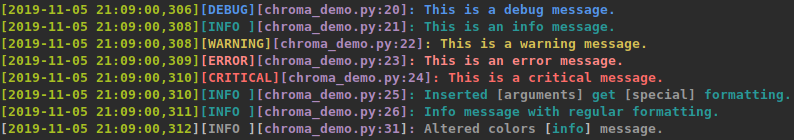
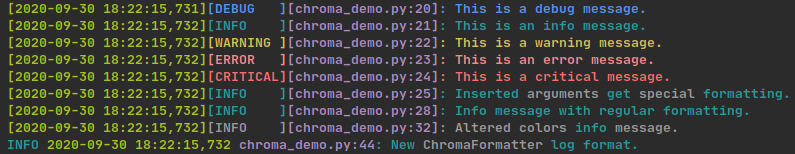
- Removed bracket coloring entirely, it was arbitrary and made things   needlessly complicated. - Updated demo screenshots. - Updated README and version. - Removed short hand version of BOLD and RESET, there should be one   obvious way to do it.

diff --git a/src/chromalogging/chroma_formatter.py b/src/chromalogging/chroma_formatter.py
@@ -7,8 +7,6 @@ from chromalogging import (Formatter, DEBUG, INFO, WARNING, ERROR, CRITICAL,
                            LogRecord)
 
 ARGS = -10
-BRACKETS = -20
-
 RESET = Style.RESET_ALL
 BOLD = Style.BRIGHT
 
@@ -38,18 +36,14 @@ class ChromaFormatter(Formatter):
     """Extends logging.Formatter to add colors and styles."""
 
     def __init__(self, msg: str, use_color: bool = True,
-                 all_bold: bool = True, apply_brackets: bool = False) -> None:
+                 all_bold: bool = True) -> None:
         """Set ChromaFormatter properties.
 
         :param msg: The format string to determine how logs will appear.
         :param use_color: Colors will be applied if True, default True.
         :param all_bold: Whole log will be bold if True, default True.
-        :param apply_brackets: Surround formatted arguments with
-            brackets if True, default False.
         """
         self.use_color: bool = use_color
-        self.add_brackets_to_args: bool = True
-        self.apply_brackets = apply_brackets
         self._bold: str = BOLD if all_bold else ''
         msg = _format_message(msg, use_color, self._bold)
         super().__init__(msg)
@@ -62,45 +56,28 @@ class ChromaFormatter(Formatter):
             WARNING: Fore.YELLOW,
             ERROR: Fore.LIGHTRED_EX,
             CRITICAL: Fore.RED,
-            ARGS: Fore.WHITE,
-            BRACKETS: ''
+            ARGS: Fore.WHITE
         }
 
     def format(self, record: LogRecord) -> str:
         _init_record(record)
         if not self.use_color or record.levelno not in self.color_map:
-            replace = '[%s]' if self.add_brackets_to_args else '%s'
-            record.msg = re.sub(r'(?<!{){}(?!})', replace, record.msg)
+            record.msg = re.sub(r'(?<!{){}(?!})', '%s', record.msg)
             return Formatter.format(self, record)
         self._style._fmt = self._original_style_fmt
         if self._bold:
             self._style._fmt = re.sub(re.escape(BOLD), '', self._style._fmt)
             self._style._fmt = BOLD + self._style._fmt
         # Shorthands for different colors.
-        bc = self.color_map[BRACKETS] + self._bold
-        ac = self.color_map[ARGS] + self._bold
-        lc = self.color_map[record.levelno] + self._bold
-        if self.color_map[BRACKETS]:
-            self._color_brackets(bc)
-        record.msg = lc + record.msg
+        arg_color = self.color_map[ARGS] + self._bold
+        level_color = self.color_map[record.levelno] + self._bold
+        record.msg = level_color + record.msg
         if record.args:
-            msg = f'{ac}{bc}[{ac}%s{bc}]{lc}' if self.apply_brackets \
-                else f'{ac}{ac}%s{lc}'
-            record.msg = re.sub(r'(?<!{){}(?!})', msg
-                                if self.add_brackets_to_args else
-                                f'{ac}%s{lc}', record.msg)
-        self._style._fmt = re.sub(r'\$LEVEL', lc, self._style._fmt) + RESET
+            record.msg = re.sub(r'(?<!{){}(?!})',
+                                f'{arg_color}%s{level_color}', record.msg)
+        self._style._fmt = re.sub(r'\$LEVEL',
+                                  level_color, self._style._fmt) + RESET
         return Formatter.format(self, record)
-
-    def _color_brackets(self, brackets_color):
-        reg = '|'.join([re.escape(v) for _, v in _WORD_TO_COLOR.items()]
-                       + [fr'\$LEVEL|{re.escape(BOLD)}|{re.escape(RESET)}|$'])
-        segments = re.findall(f'((({reg})+)(.+?))(?={reg})', self._style._fmt)
-        color_segment = [(c[1], c[3]) for c in segments]
-        self._style._fmt = ''.join(
-            re.sub(r'([\[\]])', fr'{brackets_color}\1{color}', part)
-            for color, part in color_segment
-        )
 
 
 def _init_record(record: LogRecord) -> None:
@@ -138,8 +115,8 @@ def _format_message(msg: str, use_color: bool, bold: str) -> str:
     if not use_color:
         return re.sub(r'\$[A-Z_]+\b', '', msg)
     msg = f'{bold}{msg}$RESET'
-    msg = re.sub(r'\$(RESET|R(?!ED))', RESET + bold, msg)
-    msg = re.sub(r'\$(BOLD|B(?!LUE|LACK))', BOLD, msg)
+    msg = re.sub(r'\$(RESET)', RESET + bold, msg)
+    msg = re.sub(r'\$(BOLD)', BOLD, msg)
     for color_word, color in _WORD_TO_COLOR.items():
         msg = msg.replace(f'${color_word}', color + bold)
     return msg

diff --git a/chroma_demo.py b/chroma_demo.py
@@ -6,7 +6,7 @@ from src import chromalogging as logging
 
 if __name__ == '__main__':
     log = logging.getLogger()
-    log_format = logging.default_format_msg(levelname_min=5)
+    log_format = logging.default_format_msg(levelname_min=8)
     file_formatter = logging.ChromaFormatter(log_format, False, False)
     file_handler = logging.FileHandler('log/demo.log', mode='w')
     file_handler.setFormatter(file_formatter)
@@ -28,14 +28,13 @@ if __name__ == '__main__':
     log.info(f'Info message with {reg} {formatting}.')
 
     stream_formatter.color_map[logging.INFO] = colorama.Fore.WHITE
-    stream_formatter.color_map[logging.BRACKETS] = colorama.Fore.RESET
     stream_formatter.color_map[logging.ARGS] = colorama.Fore.CYAN
     log.info('Altered colors {} message.', 'info')
 
-    format_string = (f'$GREEN%(asctime)-s'
-                     f' $LEVEL%(levelname)-s'
-                     f' $MAGENTA%(filename)-s:%(lineno)-0d'
-                     f'$LEVEL: %(message)s')
+    format_string = ('$LEVEL%(levelname)-s'
+                     ' $GREEN%(asctime)-s'
+                     ' $MAGENTA%(filename)-s:%(lineno)-0d'
+                     '$LEVEL: %(message)s')
     formatter = logging.ChromaFormatter(format_string)
     formatter.add_brackets_to_args = False
     handler = logging.StreamHandler(stream=sys.stdout)

diff --git a/src/chromalogging/__init__.py b/src/chromalogging/__init__.py
@@ -4,8 +4,7 @@ from typing import Optional, Any
 
 from colorama import init
 
-from chromalogging.chroma_formatter import (ARGS, BRACKETS, RESET, BOLD,
-                                            ChromaFormatter)
+from chromalogging.chroma_formatter import ARGS, RESET, BOLD, ChromaFormatter
 
 __all__ = ['ARGS', 'BRACKETS', 'RESET', 'BOLD', 'ChromaFormatter',
            'default_format_msg', 'get_default_logger'] + \

diff --git a/setup.py b/setup.py
@@ -2,7 +2,7 @@ from setuptools import setup
 
 setup(
     name='chromalogging',
-    version='0.1.5',
+    version='0.1.6',
     url='https://gitlab.com/mburkard/chroma-logging',
     license='MIT',
     author='Matthew Burkard',

diff --git a/README.md b/README.md
@@ -21,17 +21,18 @@ import sys
 import chromalogging as logging
 
 log = logging.getLogger()
-log_format = logging.default_format_msg(levelname_min=5)
+log_format = logging.default_format_msg()
 formatter = logging.ChromaFormatter(log_format)
 handler = logging.StreamHandler(stream=sys.stdout)
 handler.setFormatter(formatter)
 log.addHandler(handler)
 ```
 
-##### Custom Formatting
-Alternatively custom format messages can be made. To use a color in a
-log use $<COLOR_NAME_HERE> to add a color. $LEVEL or $Lto refer to the
-color of the logging level for a log:
+##### Formatting
+Chroma Logging format message works the same as with the default logger
+except colors can be added. To use a color in a log use
+$<COLOR_NAME_HERE> to add a color. ```$LEVEL``` refer to the color of
+the logging level for a log:
 ```python
 log_format = ('$GREEN[%(asctime)-s]'
               '$LEVEL[%(levelname)-s]'
@@ -52,23 +53,14 @@ All supported colors:
 | $CYAN    | $LI_CYAN    |
 | $WHITE   | $LI_WHITE   |
 
-Additionally $BOLD or $B applies bold text and $RESET or $R resets back
-to no colors or bold text.
-
-All special codes:
-
-| Verbose|Short Hand|
-| ------ |--------- |
-| $BOLD  | $B       |
-| $RESET | $R       |
-| $LEVEL | $L       |
+Additionally ```$BOLD ```applies bold text and ```$RESET``` resets back
+to no colors unless all_bold is True, then it resets to bold text.
 
 
 #### Additional Configuration
-
 ChromaFormatter has a dict called color_map to determine the colors of
-other parts of the log msg. Logging levels, brackets and the colors of
-formatted arguments are all set in color_map.
+other parts of the log msg. Logging levels and the colors of formatted
+arguments are all set in color_map.
 
 By default the colors are:
 
@@ -80,12 +72,10 @@ By default the colors are:
 | ERROR    | LIGHTRED_EX |
 | CRITICAL | RED         |
 | ARGS     | White       |
-| BRACKETS | None        |
 
 To change colors:
 ```python
 formatter.color_map[logging.INFO] = colorama.Fore.WHITE
-formatter.color_map[logging.BRACKETS] = colorama.Fore.RED
 formatter.color_map[logging.ARGS] = colorama.Fore.MAGENTA
 ```
 Any colorama colors work here.
